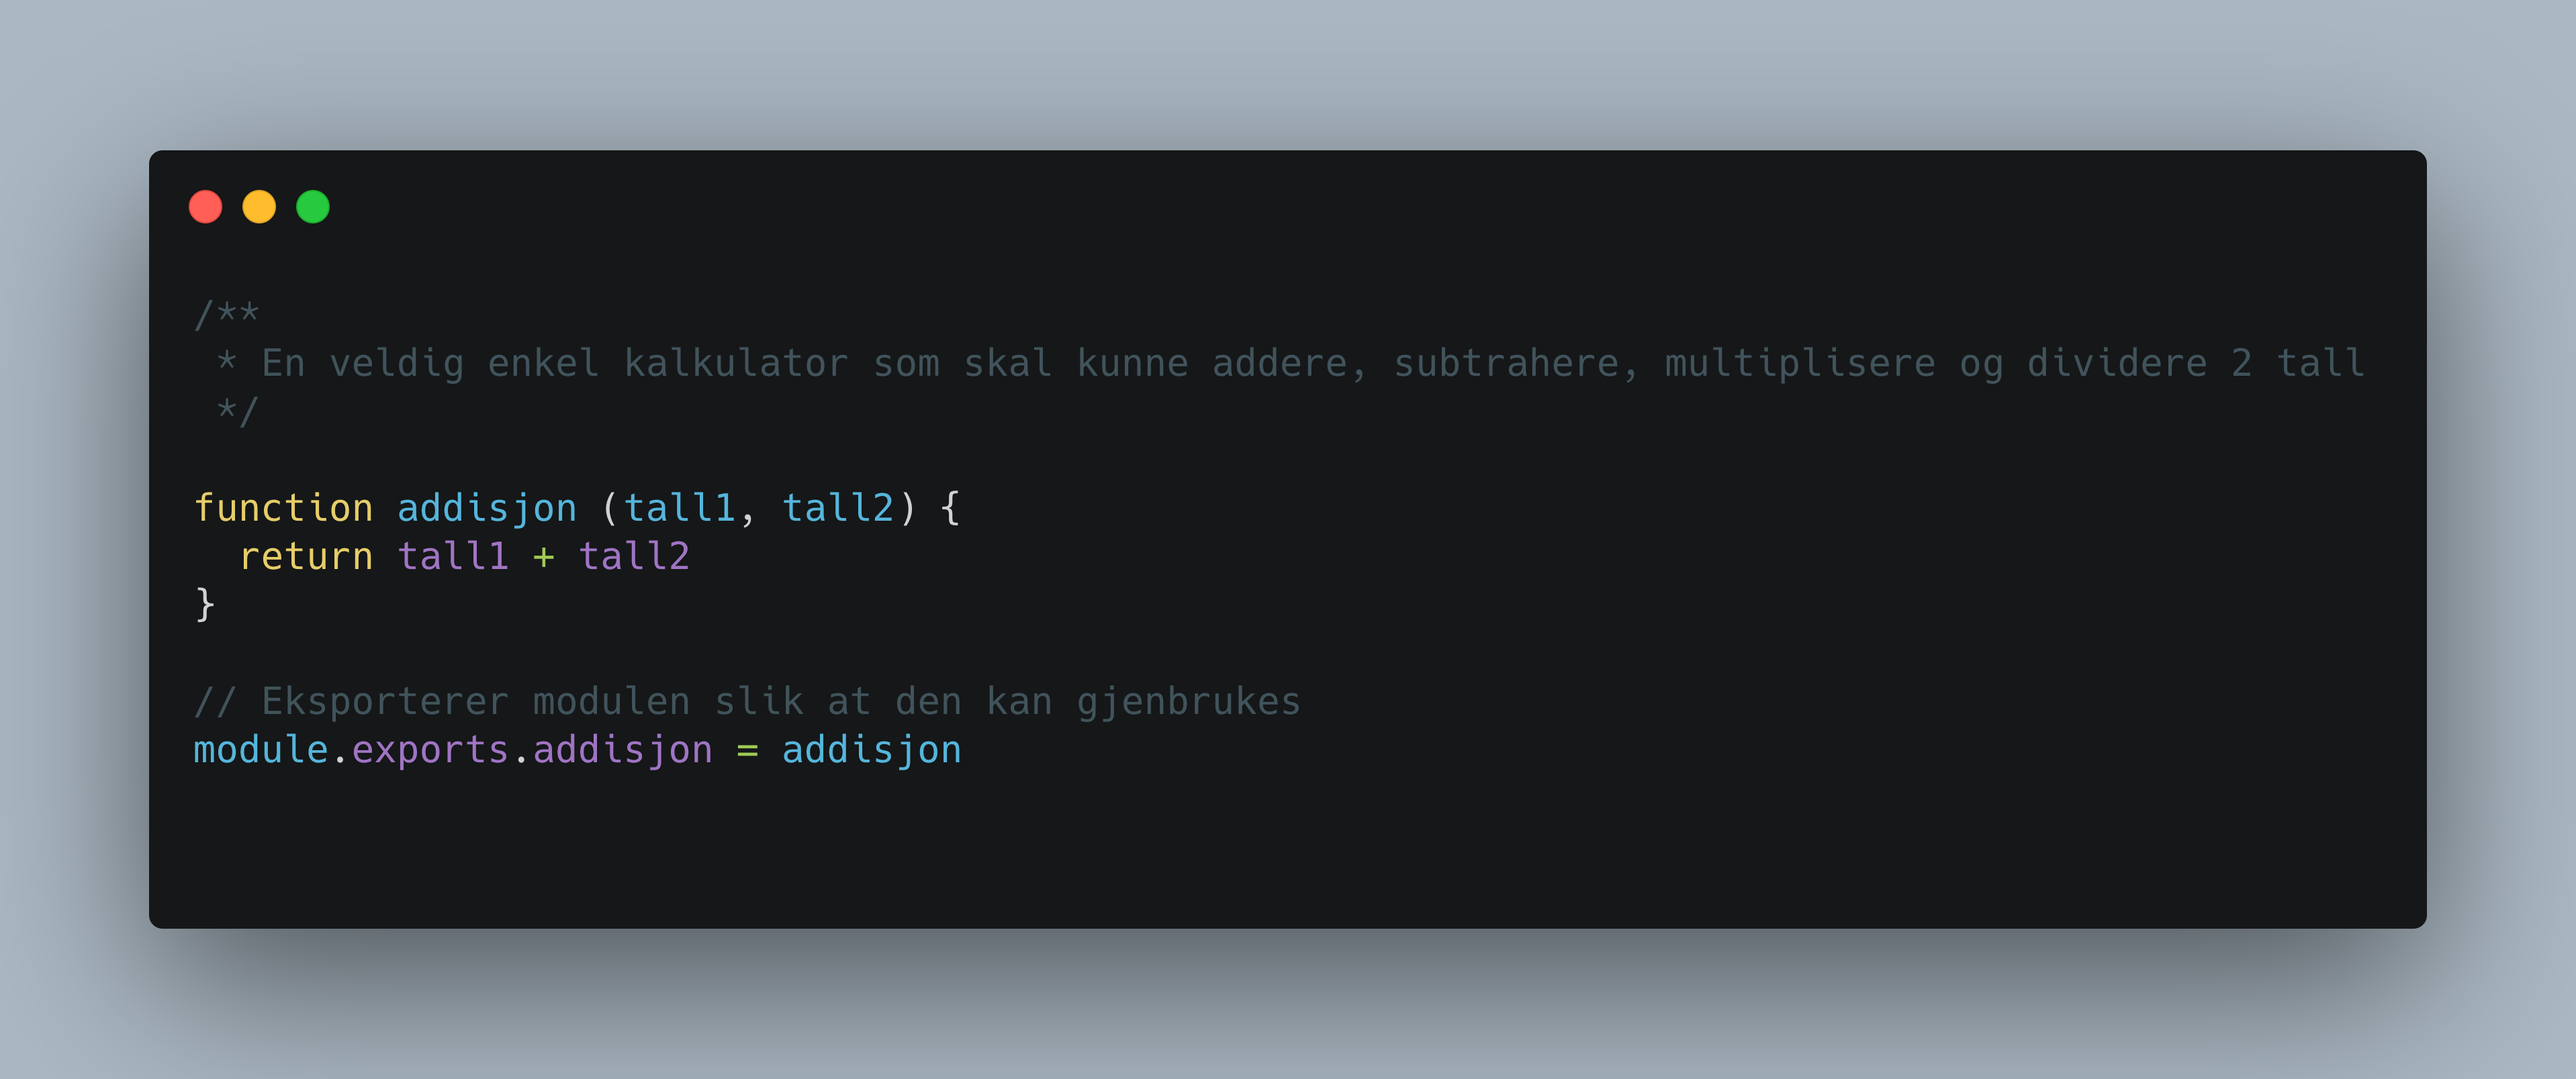
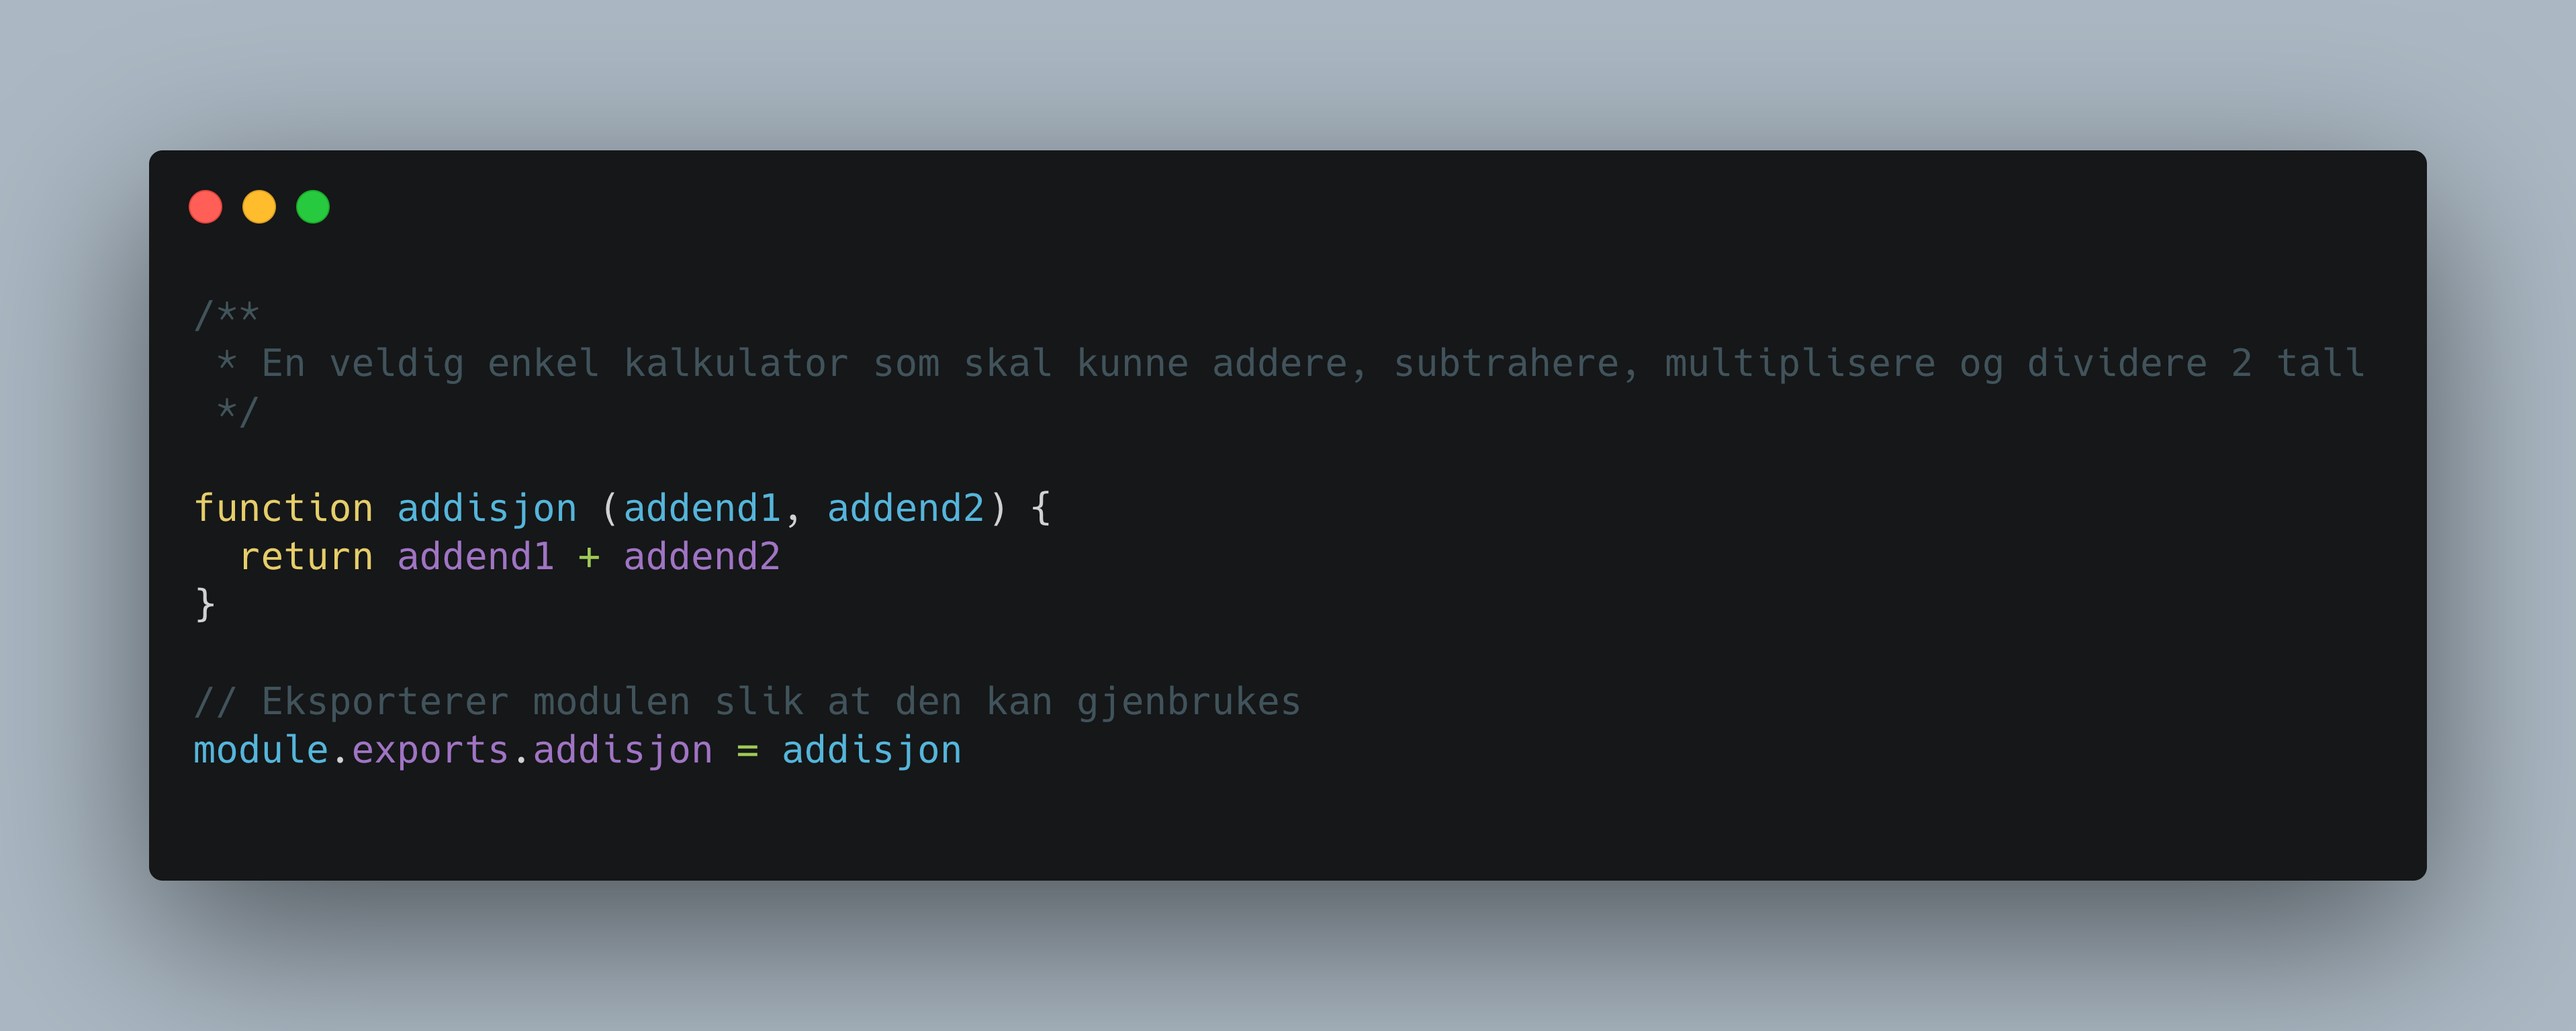
Skriver introduksjonen til tdd

diff --git a/test/kalkulator.test.js b/test/kalkulator.test.js
@@ -18,22 +18,7 @@ test('addisjon av 1 + 3 gir 4', t => {
 })
 
 /**
- * Som bruker ønsker jeg at addisjon av 1 + 2 gir svaret 3
- * for at jeg skal kunne vite at kalkulatoren min fungerer
- */
-test('addisjon av 1 + 2 gir 3', t => {
-  t.is(addisjon(1, 2), 3, 'addisjon 1 + 2 er ok')
-})
-
-/**
  * Som bruker ønsker jeg at subtraksjon av 3 - 1 gir svaret 2
- * for at jeg skal kunne vite at kalkulatoren min fungerer
- */
-
-// ---- skriv testen for denne brukerhistorien her
-
-/**
- * Som bruker ønsker jeg at subtraksjon av 5 - 1 gir svaret 4
  * for at jeg skal kunne vite at kalkulatoren min fungerer
  */
 
@@ -47,21 +32,7 @@ test('addisjon av 1 + 2 gir 3', t => {
 // ---- skriv testen for denne brukerhistorien her
 
 /**
- * Som bruker ønsker jeg at multiplikasjon av 2 * 4 gir svaret 8
- * for at jeg skal kunne vite at kalkulatoren min fungerer
- */
-
-// ---- skriv testen for denne brukerhistorien her
-
-/**
  * Som bruker ønsker jeg at divisjon av 10/5 gir svaret 2
- * for at jeg skal kunne vite at kalkulatoren min fungerer
- */
-
-// ---- skriv testen for denne brukerhistorien her
-
-/**
- * Som bruker ønsker jeg at divisjon av 10/2 gir svaret 5
  * for at jeg skal kunne vite at kalkulatoren min fungerer
  */
 

diff --git a/lib/kalkulator.js b/lib/kalkulator.js
@@ -2,10 +2,9 @@
  * En veldig enkel kalkulator som skal kunne addere, subtrahere, multiplisere og dividere 2 tall
  */
 
-function addisjon (a, b) {
-  return a + b
+function addisjon (addend1, addend2) {
+  return addend1 + addend2
 }
 
 // Eksporterer modulen slik at den kan gjenbrukes
 module.exports.addisjon = addisjon
-

diff --git a/docs/tdd.md b/docs/tdd.md
@@ -1,1 +1,32 @@
 # TDD - Testdrevet utvikling
+
+TDD, test-driven development, er en programmeringsteknikk hvor du skriver testene først og så koden.
+I grove trekk består TDD av tre trinn som du gjentar i hele utviklingsløpet.
+
+- Skriv en test som feiler
+- Skriv den minste implementasjonen du kan av koden for å få testen til å bestå
+- Refaktorer koden
+
+## Et eksempel: en enkel kalkulator
+
+Vi skal lage en kalkulator.
+For å starte så enkelt som mulig bestemmer vi oss for at den skal kunne legge sammen 2 tall.
+Vi ønsker å ha en funksjon for dette.
+
+![Test som sjekker at 1 + 3 er 4][../images/kalkulator-test-1.png]
+
+Testen sjekker at funksjonen tar imot to tall, 1 og 3. Så sjekker den at resultatet av dette blir 4.
+
+Så skriver vi den minste implementasjonen vi kan komme på for at denne testen skal bestå.
+
+![Funksjon som returnerer 4][../images/kalkulator-trinn-1.png]
+
+Å skrive en funksjon som bare returnerer 4 får testen til å bestå.
+Det kan virke dumt å gjøre noe så lite men nå vet du at denne testen vil passere så lenge funksjonen din returnerer 4 når du sender inn 1 og 3.
+Da kan du trygt starte å refaktorere koden din fordi du vet at dersom du gjør det riktig vil testen fortsatt bestå.
+
+![Funksjon som returnerer summen av 2 tall][../images/kalkulator-trinn-2.png]
+
+Testen består fortsatt og da kan vi, dersom vi ønsker, refaktorere videre.
+Det er for eksempel ikke så tydelig å lese koden og forstå hva a og b er.
+Vi kan for eksempel erstatte de med tall1 og tall2, eller bruke det helt korrekte addend1 og addend2
